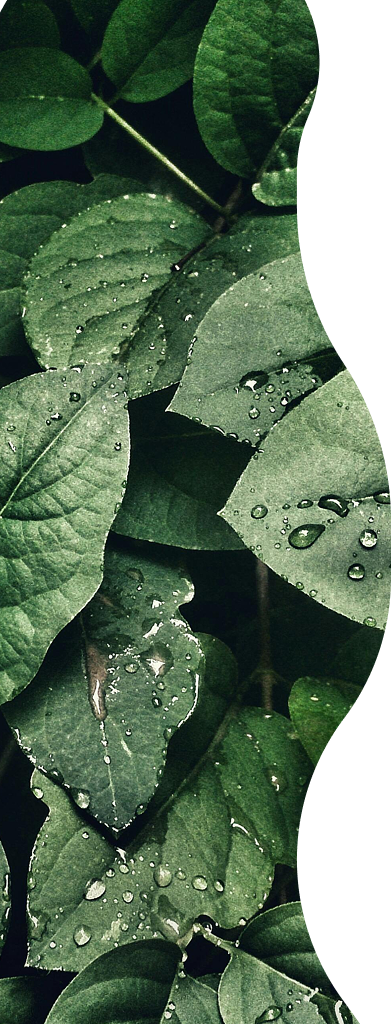
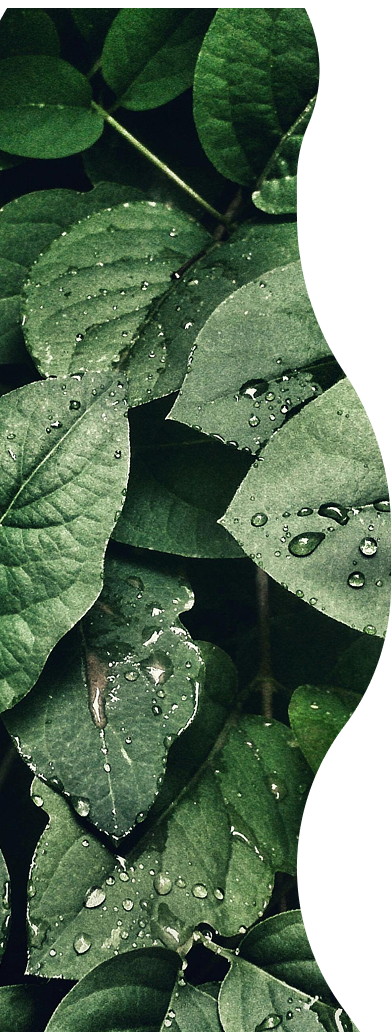
done navbar blog and categories

Changed region(s): [[0.0, 0.0, 1.0, 1.0], [0.0, 0.8125, 0.0307, 0.9062]]

diff --git a/public/styles/blog.css b/public/styles/blog.css
@@ -3,3 +3,81 @@ body {
   background-repeat: no-repeat;
   background-size: 100%;
 }
+.navbar {
+  display: flex;
+  border-radius: 25px;
+  justify-content: space-between;
+
+  font-style: normal;
+  font-weight: 400;
+  z-index: 3;
+  width: 1000px;
+  height: 60px;
+  color: white;
+  background-color: aliceblue;
+  align-items: center;
+  background-color: rgb(240, 248, 255, 0.4);
+  margin: auto;
+}
+nav {
+  display: flex;
+  justify-content: flex-end;
+  font-size: 20px;
+  gap: 30px;
+  align-items: center;
+}
+
+.navbar img {
+  width: 100%;
+}
+a {
+  text-decoration: none;
+
+  margin: 5px;
+  pointer-events: auto;
+  /* Ili block ako treba */
+  cursor: pointer;
+  color: aliceblue;
+}
+
+nav a {
+  display: inline-block;
+  padding: 8px 16px; /* proširuje pozadinu oko teksta */
+}
+
+nav a:hover {
+  background-color: #696c68;
+  background-size: cover;
+  border-radius: 30px;
+  transition: background-color 0.3s ease, color 0.3s ease;
+}
+.categories-list .dropdown-content:hover {
+  border-radius: 0%;
+}
+
+.categories-list {
+  position: relative;
+  display: inline-block;
+}
+.dropdown-content {
+  display: none;
+  position: absolute;
+  background-color: #59493e;
+  min-width: 160px;
+  box-shadow: 0px 8px 16px 0px rgba(0, 0, 0, 0.2);
+  z-index: 1;
+}
+.dropdown-content a:hover {
+  background-color: #ddd;
+}
+.dropdown-content a {
+  color: black;
+  padding: 12px 16px;
+  text-decoration: none;
+  display: block;
+}
+
+/* Show the dropdown menu on hover */
+.categories-list:hover .dropdown-content {
+  display: block;
+}

diff --git a/public/styles/category.css b/public/styles/category.css
@@ -2,6 +2,7 @@ body {
   background-image: url("/images/category-picture_3_optimized.png");
   background-repeat: no-repeat;
   background-color: #7a8876;
+  font-family: "Inria Serif";
 }
 
 footer {
@@ -16,25 +17,31 @@ footer {
 }
 
 .navbar {
-  text-indent: 40px;
-  font-family: "Inria Serif";
+  display: flex;
+  border-radius: 25px;
+  justify-content: space-between;
+
   font-style: normal;
   font-weight: 400;
   z-index: 3;
-  position: relative;
-
-  width: 70%;
-  height: 50px;
+  width: 1000px;
+  height: 60px;
   color: white;
   background-color: aliceblue;
-  opacity: 40%;
-  text-align: center;
   align-items: center;
+  background-color: rgb(240, 248, 255, 0.4);
+  margin: auto;
 }
 nav {
   display: flex;
   justify-content: flex-end;
   font-size: 20px;
+  gap: 30px;
+  align-items: center;
+}
+
+.navbar img {
+  width: 100%;
 }
 a {
   text-decoration: none;
@@ -46,15 +53,24 @@ a {
   color: aliceblue;
 }
 
-.navbar a:hover {
-  background-color: #475c40;
-  color: black;
+nav a {
+  display: inline-block;
+  padding: 8px 16px; /* proširuje pozadinu oko teksta */
+}
+
+nav a:hover {
+  background-color: #696c68;
+  background-size: cover;
+  border-radius: 30px;
+  transition: background-color 0.3s ease, color 0.3s ease;
+}
+.categories-list .dropdown-content:hover {
+  border-radius: 0%;
 }
 
 .categories-list {
   position: relative;
   display: inline-block;
-  margin-top: 5px;
 }
 .dropdown-content {
   display: none;

diff --git a/public/styles/main.css b/public/styles/main.css
@@ -33,6 +33,7 @@ nav {
 /* Opcionalno: Promena boje kada korisnik pređe mišem preko linka */
 a:hover {
   color: #cc7a73; /* Postavi boju po izboru */
+  transition: background-color 0.3s ease, color 0.3s ease;
 }
 
 .rect-first {
